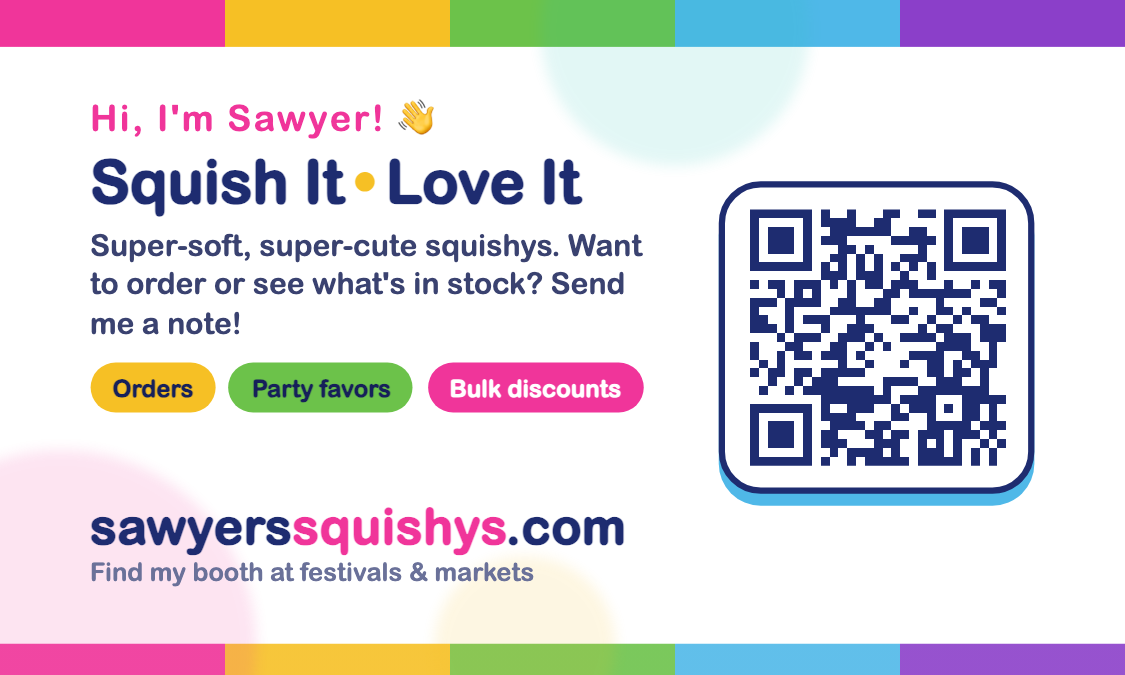
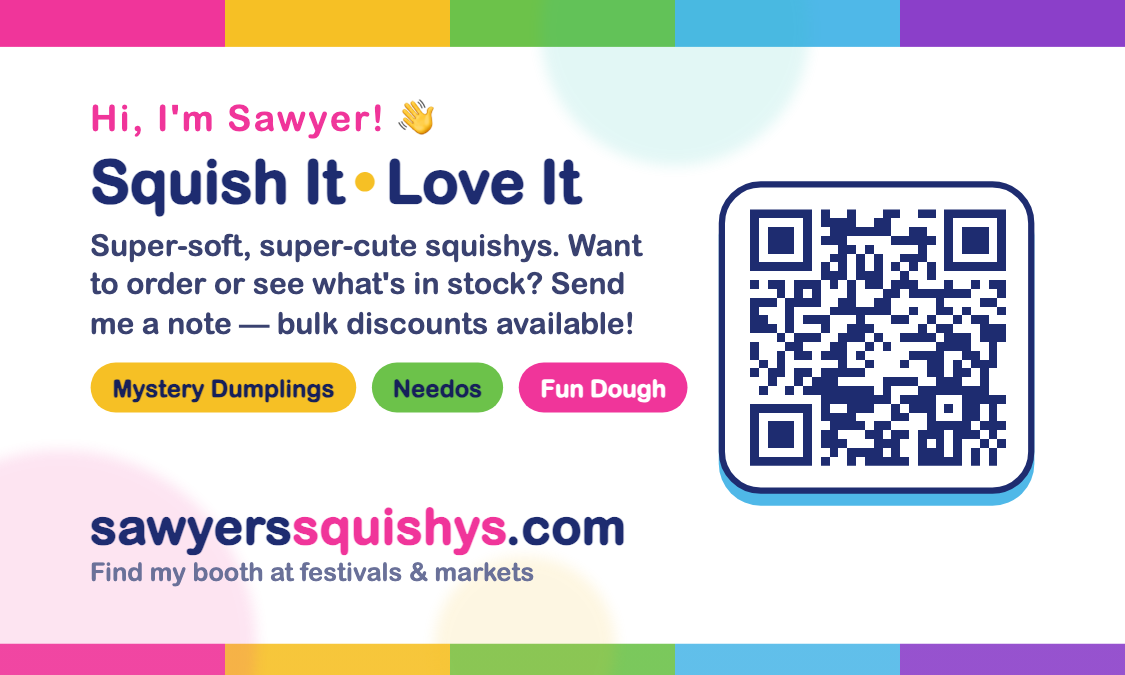
Card back: product chips (Mystery Dumplings / Needos / Fun Dough), bulk discounts in copy

Changed region(s): [[0.0933, 0.5289, 0.6222, 0.6222], [0.1867, 0.4667, 0.56, 0.4978]]

diff --git a/print/card-back.html b/print/card-back.html
@@ -63,11 +63,11 @@
       <div>
         <p class="hi">Hi, I'm Sawyer! 👋</p>
         <p class="tag">Squish It<span class="dot">•</span>Love It</p>
-        <p class="lead">Super-soft, super-cute squishys. Want to order or see what's in stock? Send me a note!</p>
+        <p class="lead">Super-soft, super-cute squishys. Want to order or see what's in stock? Send me a note &mdash; bulk discounts available!</p>
         <div class="chips">
-          <span class="chip c1">Orders</span>
-          <span class="chip c2">Party favors</span>
-          <span class="chip c3">Bulk discounts</span>
+          <span class="chip c1">Mystery Dumplings</span>
+          <span class="chip c2">Needos</span>
+          <span class="chip c3">Fun Dough</span>
         </div>
       </div>
       <div>
